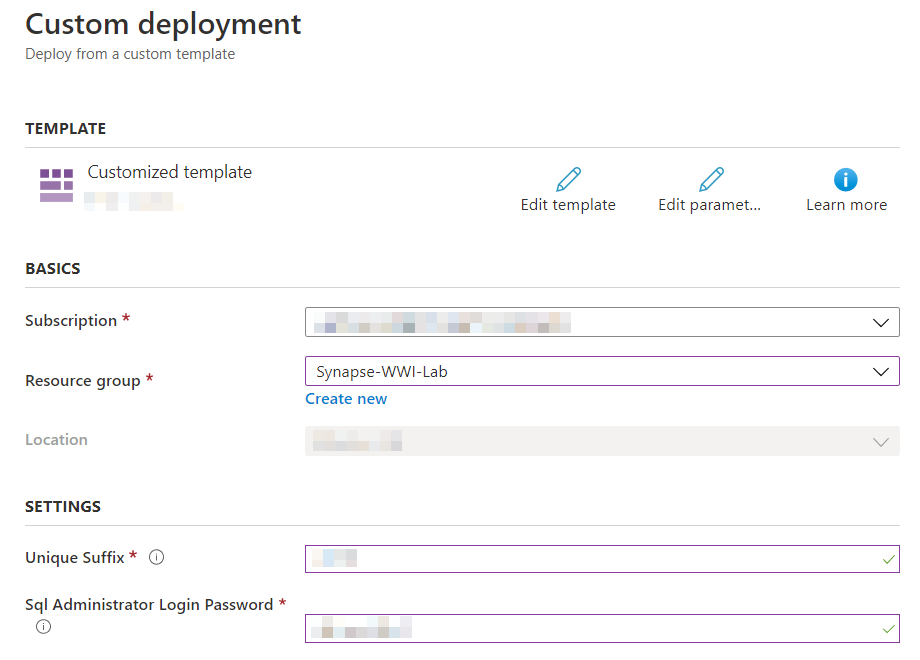
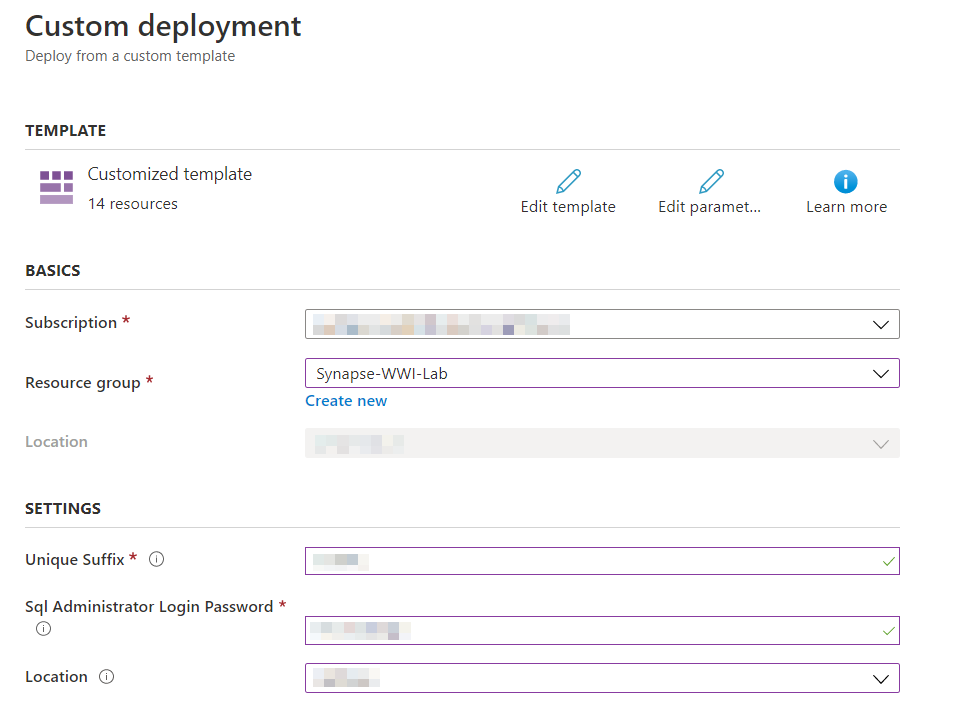
Before HOL Updates after fresh environment test.

diff --git a/Before-HOL.md b/Before-HOL.md
@@ -60,7 +60,7 @@ Microsoft and the trademarks listed at <https://www.microsoft.com/en-us/legal/in
 
 4. Select the **Create** button on the **Resource group** overview page.
 
-5. On the **Create a resource group** screen, select your desired Subscription and Region. For Resource group, enter **Synapse-MCW**, then select the **Review + Create** button.
+5. On the **Create a resource group** screen, select your desired Subscription and Region. For Resource group, enter **Synapse-WWI-Lab**, then select the **Review + Create** button.
 
     ![The Create a resource group form is displayed populated with Synapse-MCW as the resource group name.](media/bhol_resourcegroupform.png)
 
@@ -76,6 +76,8 @@ Microsoft and the trademarks listed at <https://www.microsoft.com/en-us/legal/in
 
     ![The Custom deployment form is displayed with example data populated.](media/bhol_customdeploymentform.png)
   
+    > **Important**: The `location` field under 'Settings' will list the Azure regions where Azure Synapse Analytics (Preview) is available as of June 2020. This will help you find a region where the service is available without being limited to where the resource group is defined.
+
 3. Check the **I agree to the terms and conditions stated above**, then select the **Purchase** button.
 
     > **Note**: You may experience a deployment step failing in regards to Role Assignment. This error may safely be ignored.
